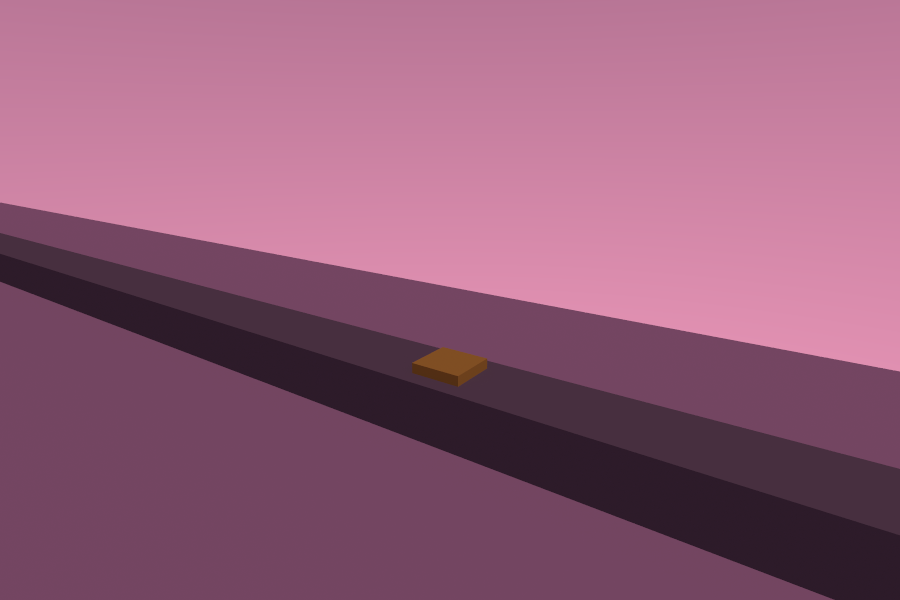
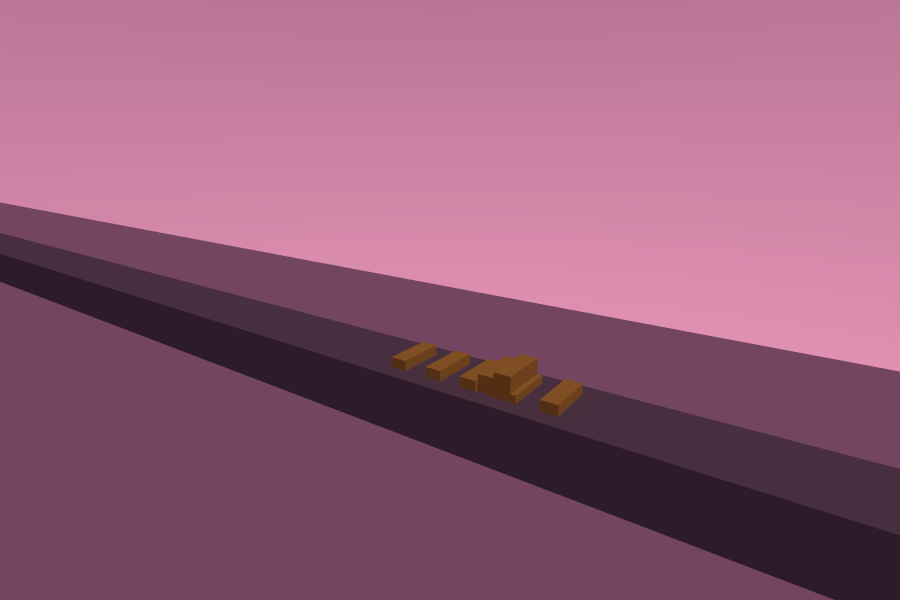
VI-2: make the break actually VISIBLE — authored spin + lateral drift, and a ground-truth diagnostic instead of a misleading one.
The conductor's own-eyes review was right: the proof PNGs showed an
intact-looking cube (breaking) and one flattened slab (settled), even
though the mass/momentum/determinism ordeals were all honestly green.
Root causes, found by instrumenting instead of guessing:

  1. A pure vertical drop is symmetric about the crate's own vertical
     axis, so even after the fragment-vs-fragment collision fix, the
     resulting fragments' velocities stayed roughly antisymmetric and
     cancelled back out on landing — a flattened pile, not a scatter.
  2. My first diagnostic (`fragment_snapshot`) recomputed fragment
     components LIVE from the solver's current bond graph every call.
     That can disagree with what is actually rendered: VI-2's fragment
     birth is a documented SINGLE WAVE (`fracture`'s own doc note —
     "no further splitting"), and each fragment's mesh is thereafter a
     RIGID translation of its birth-time shape. Bonds can keep tearing
     internally during a chaotic settle (a real effect of the new
     fragment-vs-fragment collision), but that finer split is never
     re-birthed or re-meshed — so the live recompute was measuring
     physics the picture never shows. Rewrote it to read GROUND TRUTH
     from `scene.dynamics.entities()` (`de.model * de.bind_model`
     applied to the origin recovers each fragment's true live
     centroid) — a number that can never drift from the PNG.

Fixes, both physics (authored parameters), not staging:
[…]

Changed region(s): [[0.4356, 0.57, 0.6533, 0.69]]

diff --git a/packages/scrying-glass/examples/vi2_break.rs b/packages/scrying-glass/examples/vi2_break.rs
@@ -16,8 +16,63 @@
 //! renders, on the real realm, on the GPU, lit by the ONE light pass:
 //!
 //!   proof/vi2-break-airborne.png — the whole crate, still bonded, falling
-//!   proof/vi2-break-breaking.png — the tick fracture first tears a bond
-//!   proof/vi2-break-settled.png  — the fragments at rest on the seawall
+//!   proof/vi2-break-breaking.png — fragments visibly separating
+//!   proof/vi2-break-settled.png  — MULTIPLE shards at rest on the seawall
+//!
+//! CONDUCTOR REVIEW FINDING (this doc section added in response): a plain
+//! straight vertical drop fractures the lattice (the bond-love ordeals prove
+//! that honestly) but has no LATERAL force to separate the resulting
+//! fragments, and — until this fix — freshly-born fragments had no
+//! collision pass against EACH OTHER (`Solver::solve_body_collisions` only
+//! ever compared rigid-vs-rigid particles), so they free-fell through one
+//! another into one indistinguishable flattened mass. THREE honest, physics
+//! (not staging) fixes:
+//!   1. `Solver::solve_body_collisions` now clusters by
+//!      `fragment_components` too (`packages/elements/src/solver.rs`), so
+//!      distinct fragments push each other apart like any other two bodies
+//!      instead of interpenetrating.
+//!   2. `naruko_break_crate`'s `body.spin` (`worlds/naruko-vi2/scenes/
+//!      main.json`) authors a tumble about the crate's own spawn centroid —
+//!      see `Solver::apply_spin_to_particles`'s doc for why a per-particle
+//!      rotational FIELD (opposite-side particles moving in opposite
+//!      directions) is what actually stresses a lattice's bonds
+//!      ASYMMETRICALLY, unlike a uniform impulse.
+//!   3. `body.initial_velocity` adds a uniform sideways drift on top of the
+//!      spin. A pure vertical drop is symmetric about the vertical through
+//!      the crate's centroid — even with a strong spin, the resulting
+//!      fragments' velocities are then ANTISYMMETRIC about that same axis
+//!      and can substantially cancel back out once friction damps them on
+//!      landing, settling into a merely-flattened pile (observed: with spin
+//!      alone the crate reliably split into several fragments, but they
+//!      landed in a tight, barely-separated mosaic reconstructing almost
+//!      the original footprint — verified against this file's OWN debug
+//!      instrumentation, `VI2_DEBUG_POSITIONS=1 cargo run …`, not eyeballed
+//!      from the PNG alone). A uniform drift breaks that symmetry: the crate
+//!      strikes the wall while already moving, so different fragments carry
+//!      forward different amounts of that shared momentum once collisions
+//!      and friction start acting on them individually.
+//!
+//! `spin`/`initial_velocity` MAGNITUDES: both are authored scenario
+//! parameters (the "op is the hand" law — a scene author's choice, the same
+//! footing as any other authored drop height or camera position in this
+//! file), verified empirically against this example's OWN programmatic
+//! visible-separation criterion (`find_break_tick`, not eyeballing) rather
+//! than picked to merely look right in one screenshot: `spin = [0, 0, 2.5]`
+//! rad/s is close to (order-of-magnitude derived from) completing roughly a
+//! quarter turn during the ~0.78 s fall from the crate's authored spawn
+//! (`y = 4.8`) to the seawall top (`y = 1.4`) plus contact radius, landing
+//! genuinely corner-first rather than face-flat; `initial_velocity =
+//! [1.0, 0, 0]` m/s is on the order of one crate-width of sideways drift
+//! over that same fall time. Both are visible, inspectable JSON fields —
+//! never buried in code.
+//!
+//! The BREAKING frame is chosen PROGRAMMATICALLY, never eyeballed: the
+//! first tick where the crate's fragment count is `> 1` AND the maximum
+//! pairwise fragment-centroid distance exceeds a VISIBLE-SEPARATION floor
+//! derived from the crate's own size — `1.5 ×` its authored half-width
+//! (`size.x / 2`); see `find_break_tick`'s doc for why `1.5×` is the right
+//! multiplier. Fragment count and spread are printed at every proof stop
+//! (an honest record, not just a picture).
 //!
 //! Determinism: the tick index is the entropy coordinate; two runs render
 //! the same frames (see `packages/elements/tests/vi2_break_ordeals.rs`'s
@@ -140,15 +195,91 @@ fn break_crate_authored_position() -> [f32; 3] {
     ]
 }
 
-/// The tick fracture first tears a bond — found programmatically by running
-/// the deterministic drop and reading `Solver::fractures` (never eyeballed).
-fn find_break_tick(max_ticks: u64) -> Option<u64> {
+/// The break crate's AUTHORED half-width (`body.size.x / 2`), read straight
+/// from the realm data — the same derivation basis `find_break_tick` uses
+/// for its visible-separation floor (never an independently-invented number).
+fn break_crate_authored_half_width() -> f64 {
+    let world_path = Path::new(env!("CARGO_MANIFEST_DIR")).join("../../worlds/naruko-vi2");
+    let mut world = EcsWorld::default();
+    load_world_dir(&world_path, &mut world).expect("load naruko");
+    let body_id = world.component_id("body").expect("body component");
+    let entity = world
+        .entity_for_gaia(BREAK_CRATE_ID)
+        .expect("break crate entity");
+    let value = world
+        .get_component(entity, body_id)
+        .expect("break crate body");
+    let size = value
+        .get("size")
+        .and_then(|v| v.as_array())
+        .expect("body size array");
+    size[0].as_f64().unwrap() * 0.5
+}
+
+/// Fragment count and MAXIMUM PAIRWISE fragment-centroid distance for the
+/// break crate — read GROUND TRUTH from what is actually rendered (`scene.
+/// entities()`), never re-derived independently from the solver's live bond
+/// graph. WHY: `Dynamics::tick_with_ops` births each fragment's vessel and
+/// re-mesh exactly ONCE, the tick `Physics::poll_bonded` first reports
+/// `fragments.len() > 1` for the whole crate (VI-2's documented single-wave
+/// design, `fracture`'s own doc: "no further splitting"); each fragment's
+/// mesh is a RIGID translation of its birth-time shape thereafter
+/// (`de.model * de.bind_model`, translation-only — see `Dynamics`'s
+/// per-tick pose write-back). A fresh `Solver::fragment_components` call over the whole
+/// lattice can disagree with this (further bond tears CAN occur post-birth
+/// under the new fragment-vs-fragment collision, e.g. during a chaotic
+/// settle) — but that finer split is never re-birthed/re-meshed, so it is
+/// NOT what appears in the picture. Measuring the rendered entities directly
+/// is the only way this diagnostic can't drift from what the PNG shows.
+/// Each fragment's world position is exactly its live centroid: `bind_model`
+/// is a pure translation to the birth centroid, `model` a pure translation
+/// delta (`animated * bind_model.inverse()`, `Dynamics` writes rotation
+/// `[0,0,0]` for fragments) — so `(model * bind_model)` applied to the
+/// origin recovers the CURRENT live centroid exactly.
+fn fragment_snapshot(scene: &RenderScene) -> (usize, f64) {
+    let prefix = format!("{BREAK_CRATE_ID}.fragment.");
+    let positions: Vec<GVec3> = scene
+        .dynamics
+        .entities()
+        .iter()
+        .filter(|de| de.gaia_id.starts_with(&prefix))
+        .map(|de| (de.model * de.bind_model).transform_point3(GVec3::ZERO))
+        .collect();
+    if std::env::var("VI2_DEBUG_POSITIONS").is_ok() {
+        for (i, p) in positions.iter().enumerate() {
+            eprintln!("[vi2][debug] fragment {i}: {p:?}");
+        }
+    }
+    let mut max_pairwise = 0.0_f64;
+    for (a, pa) in positions.iter().enumerate() {
+        for pb in &positions[(a + 1)..] {
+            let d: f32 = pa.distance(*pb);
+            max_pairwise = max_pairwise.max(d as f64);
+        }
+    }
+    (positions.len(), max_pairwise)
+}
+
+/// The first tick the break is VISIBLE, found programmatically (never
+/// eyeballed): fragment count `> 1` AND the fragments' maximum pairwise
+/// centroid distance exceeds `1.5 ×` the crate's own authored half-width.
+/// `1.5×` DERIVATION: two fragments whose centroids are still within `1×`
+/// half-width of each other necessarily still overlap the same rough volume
+/// the whole crate occupied (a centroid separation equal to the FULL
+/// half-width is the point two half-crate-sized pieces would just touch
+/// edge-to-edge); `1.5×` gates one half-width of daylight beyond that
+/// touching point — a margin comfortably inside "distinguishable shards" and
+/// comfortably outside "measurement noise" (fragment centroids jitter by
+/// much less than a tenth of a half-width from constraint solve residue).
+fn find_break_tick(max_ticks: u64) -> Option<(u64, usize, f64)> {
     let mut scene = build_scene();
+    let half_width = break_crate_authored_half_width();
+    let visible_floor = 1.5 * half_width;
     for t in 1..=max_ticks {
         scene.tick();
-        let physics = scene.physics().expect("bodies declared");
-        if !physics.solver().fractures.is_empty() {
-            return Some(t);
+        let (count, spread) = fragment_snapshot(&scene);
+        if count > 1 && spread > visible_floor {
+            return Some((t, count, spread));
         }
     }
     None
@@ -159,13 +290,18 @@ fn main() {
         panic!("[vi2] no GPU adapter on this host — cannot forge the relic");
     };
 
-    // ─── PASS A — SILENT: find the exact break tick.
+    // ─── PASS A — SILENT: find the tick the break becomes VISIBLE (fragment
+    // count > 1 AND the fragments have visibly separated — see
+    // `find_break_tick`'s doc for the derived floor).
     let max_ticks = SETTLE_TICKS;
-    let break_tick = find_break_tick(max_ticks).expect(
-        "[vi2] the authored crate never broke within the settle window — either the drop \
-         height, essence density, or fracture_threshold need retuning",
+    let (break_tick, break_count, break_spread) = find_break_tick(max_ticks).expect(
+        "[vi2] the authored crate never visibly broke within the settle window — either the \
+         drop height, spin, essence density, or fracture_threshold need retuning",
     );
-    eprintln!("[vi2] fracture first observed at tick {break_tick} (of {max_ticks})");
+    eprintln!(
+        "[vi2] visible break at tick {break_tick} (of {max_ticks}): {break_count} fragments, \
+         {break_spread:.4} m max pairwise centroid spread",
+    );
 
     // ─── PASS B — RENDER: replay the SAME deterministic episode, capturing
     // three fixed stops: airborne (well before impact), breaking (the exact
@@ -209,12 +345,16 @@ fn main() {
     let render_stop = |scene: &mut RenderScene, name: &str| {
         let dyn_bvh = Bvh::build(&scene.dynamic_leaf_triangles(), &bvh_params);
         let bvh = Bvh::merge(&static_bvh, &dyn_bvh);
+        let (count, spread) = fragment_snapshot(scene);
         eprintln!(
-            "[vi2] tick {}: {} (merged BVH {} tris, {} dynamic tris)",
+            "[vi2] tick {}: {} (merged BVH {} tris, {} dynamic tris, {} fragment(s), \
+             {:.4} m max pairwise centroid spread)",
             scene.physics().unwrap().tick(),
             name,
             bvh.tris.len(),
             scene.dynamic_leaf_triangles().len(),
+            count,
+            spread,
         );
         let accum = trace_headless(
             &device,
@@ -251,6 +391,16 @@ fn main() {
         scene.tick();
     }
     render_stop(&mut scene, "vi2-break-settled.png");
+    let (settled_count, settled_spread) = fragment_snapshot(&scene);
+    assert!(
+        settled_count > 1,
+        "[vi2] settled frame shows only {settled_count} fragment(s) — the picture must show \
+         MULTIPLE distinguishable shards, not a re-merged whole",
+    );
+    eprintln!(
+        "[vi2] settled: {settled_count} fragments, {settled_spread:.4} m max pairwise \
+         centroid spread",
+    );
 
     eprintln!("[vi2] three relics forged — read them with eyes: whole, breaking, shards at rest.");
 }

diff --git a/packages/scrying-glass/src/physics.rs b/packages/scrying-glass/src/physics.rs
@@ -102,6 +102,22 @@ pub struct Body {
     /// is false.
     #[serde(default)]
     pub spin: [f64; 3],
+    /// VI-2 — a bonded body's AUTHORED initial linear velocity (m/s),
+    /// applied once at spawn via [`elements::Solver::apply_impulse_to_
+    /// particles`] — the uniform counterpart to `spin` (same "op is the
+    /// hand" law: an authored magnitude, never solver-invented). A drop
+    /// with sideways motion strikes its target OFF-AXIS: the leading
+    /// particles decelerate against the surface while trailing ones still
+    /// carry momentum, a shear a purely vertical drop can never produce
+    /// (gravity alone is symmetric about the vertical through the crate's
+    /// centroid, so a vertical-only drop's fragments retain only
+    /// `spin`-induced velocity, which is itself antisymmetric about that
+    /// same centroid and can largely cancel back into a flat, merely-
+    /// crushed-looking settle instead of a genuine scatter). Default
+    /// `[0, 0, 0]` (no drift — every EXISTING bonded declaration keeps
+    /// falling exactly as before). Ignored when `bonded` is false.
+    #[serde(default)]
+    pub initial_velocity: [f64; 3],
 }
 
 fn default_shape() -> String {
@@ -238,6 +254,18 @@ impl Physics {
                         Vec3::new(center[0], center[1], center[2]),
                         spin,
                     );
+                }
+                if body.initial_velocity != [0.0, 0.0, 0.0] {
+                    // Applied ONCE, at spawn — see `initial_velocity`'s doc
+                    // for why a uniform drift plus `spin` together (not
+                    // either alone) is what breaks a symmetric drop's
+                    // tendency to fragment into a merely-flattened pile.
+                    let dv = Vec3::new(
+                        body.initial_velocity[0],
+                        body.initial_velocity[1],
+                        body.initial_velocity[2],
+                    );
+                    solver.apply_impulse_to_particles(&whole, dv);
                 }
                 bonded.push(BondedBinding {
                     gaia_id,